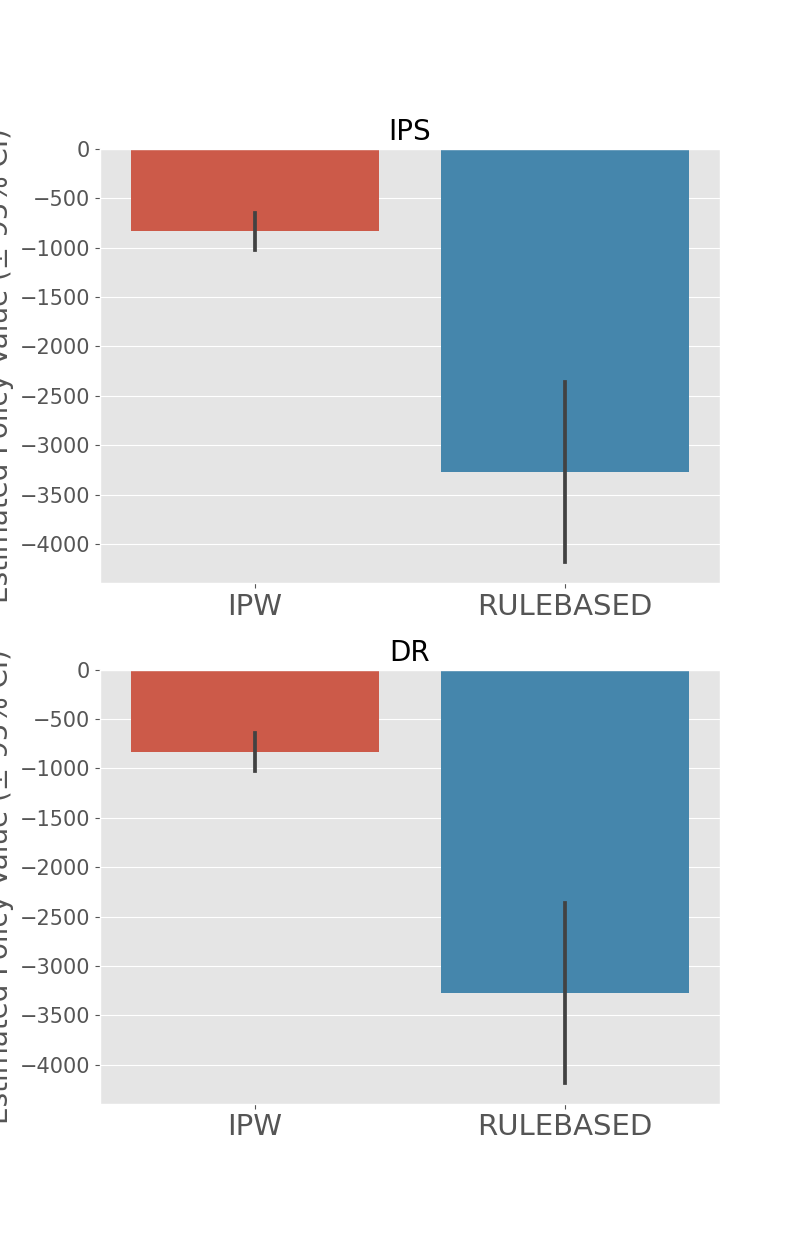
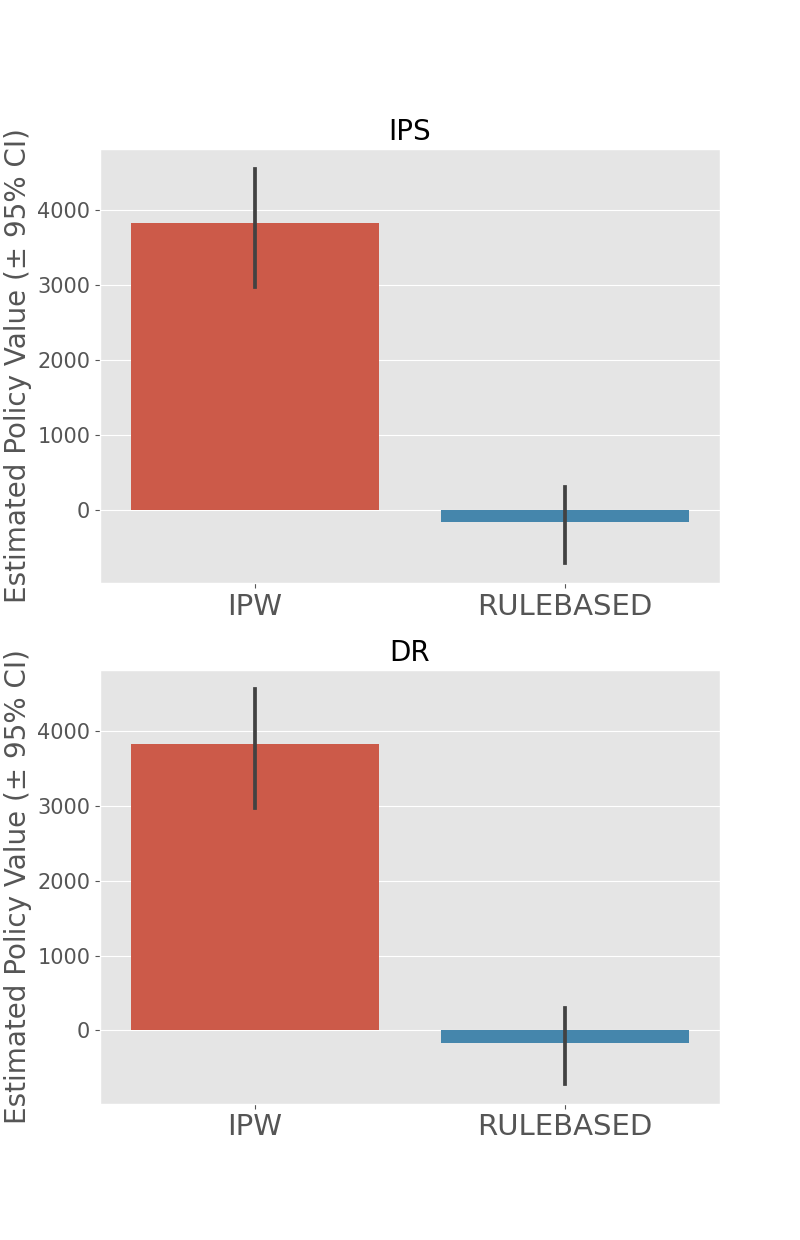
NNPolicyLearner

diff --git a/pokemon_ml_design/model.py b/pokemon_ml_design/model.py
@@ -2,8 +2,9 @@ from abc import ABCMeta, abstractmethod
 from typing import List
 
 import numpy as np
-from obp.policy import IPWLearner
+from obp.policy import IPWLearner, NNPolicyLearner
 from obp.types import BanditFeedback
+from obp.ope import DirectMethod, InverseProbabilityWeighting
 from sklearn.preprocessing import StandardScaler
 from sklearn.linear_model import LogisticRegression
 from sklearn.ensemble import RandomForestClassifier
@@ -25,11 +26,17 @@ class BaseModel(metaclass=ABCMeta):
 
 class IPWModel(BaseModel):
     def __init__(self) -> None:
-        self._model = IPWLearner(
+        # self._model = IPWLearner(
+        #     n_actions=len(ACTIONS),
+        #     # base_classifier=LogisticRegression(C=100, random_state=615, max_iter=1000)
+        #     # base_classifier=RandomForestClassifier(random_state=615)
+        #     base_classifier=SVC(gamma='auto', random_state=615)
+        # )
+        self._model = NNPolicyLearner(
             n_actions=len(ACTIONS),
-            # base_classifier=LogisticRegression(C=100, random_state=615, max_iter=1000)
-            # base_classifier=RandomForestClassifier(random_state=615)
-            base_classifier=SVC(gamma='auto', random_state=615)
+            dim_context=2,
+            off_policy_objective=InverseProbabilityWeighting().estimate_policy_value_tensor,  # TODO: これはなに？
+            random_state=615
         )
         self._scaler = StandardScaler()
 

diff --git a/pokemon_ml_design/actions.py b/pokemon_ml_design/actions.py
@@ -12,8 +12,8 @@ class Action:
 
 ACTIONS: List[Action] = [
     Action(label='逃げる', performance=-math.inf, cost=0),
-    Action(label='モンスターボールを投げる', performance=0, cost=300),
+    Action(label='モンスターボールを投げる', performance=50, cost=100),
     Action(label='スーパーボールを投げる', performance=100, cost=500),
-    Action(label='ハイパーボールを投げる', performance=200, cost=5000),
-    Action(label='マスターボールを投げる', performance=math.inf, cost=20000),
+    Action(label='ハイパーボールを投げる', performance=200, cost=2000),
+    Action(label='マスターボールを投げる', performance=math.inf, cost=10000),
 ]

diff --git a/pokemon_ml_design/evaluate.py b/pokemon_ml_design/evaluate.py
@@ -63,6 +63,13 @@ def evaluate(validation_data: BanditFeedback, action_choices: Dict[str, List]) -
         capture_dificulties[action_id].append(capture_dificulty)
         rewards[action_id].append(reward)
 
+    fig = plt.figure(figsize = (8, 20))
+    ax = fig.add_subplot(111)
+    ax.axhline(ACTIONS[1].cost, ls = "-.", color = "magenta")
+    ax.axhline(ACTIONS[2].cost, ls = "-.", color = "magenta")
+    ax.axhline(ACTIONS[3].cost, ls = "-.", color = "magenta")
+    ax.axhline(ACTIONS[4].cost, ls = "-.", color = "magenta")
+
     for i, action in enumerate(ACTIONS):
         print(i, len(capture_dificulties[i]))
         plt.scatter(capture_dificulties[i], rewards[i], label=i)  # TODO:　action.labelを使う
